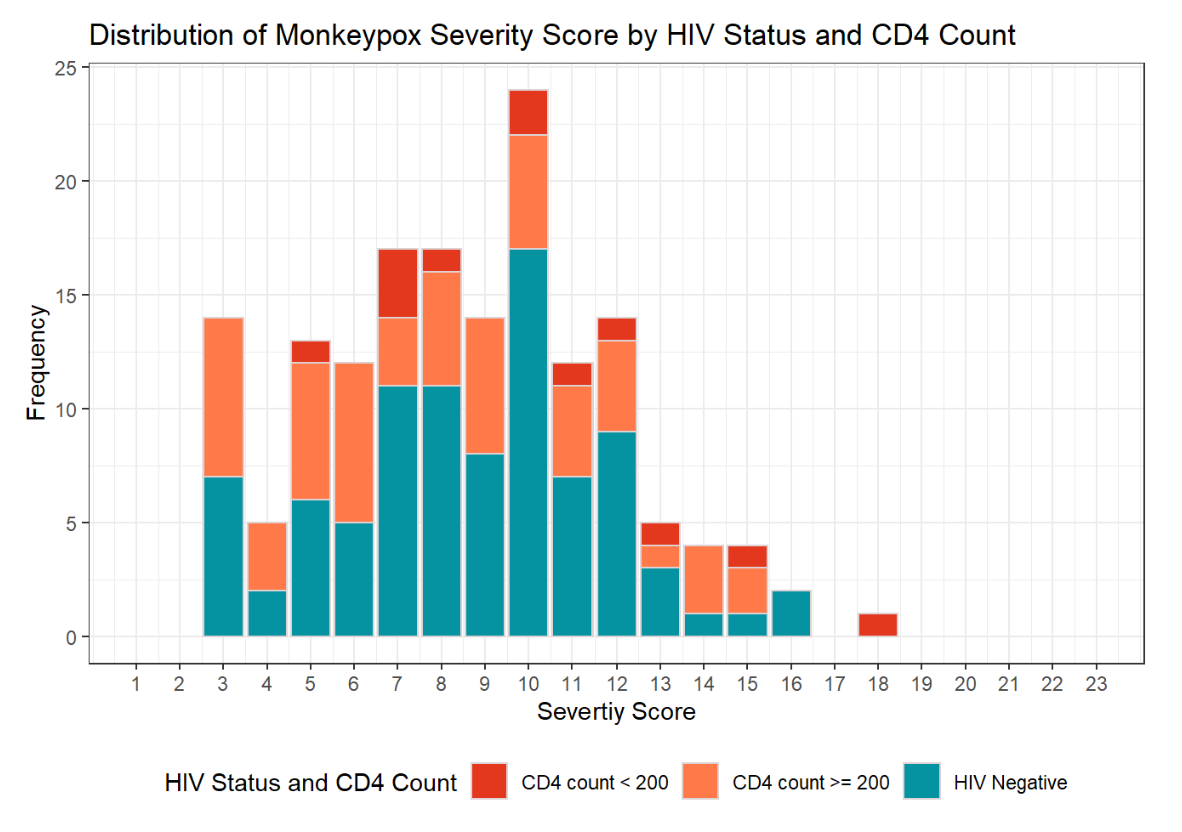
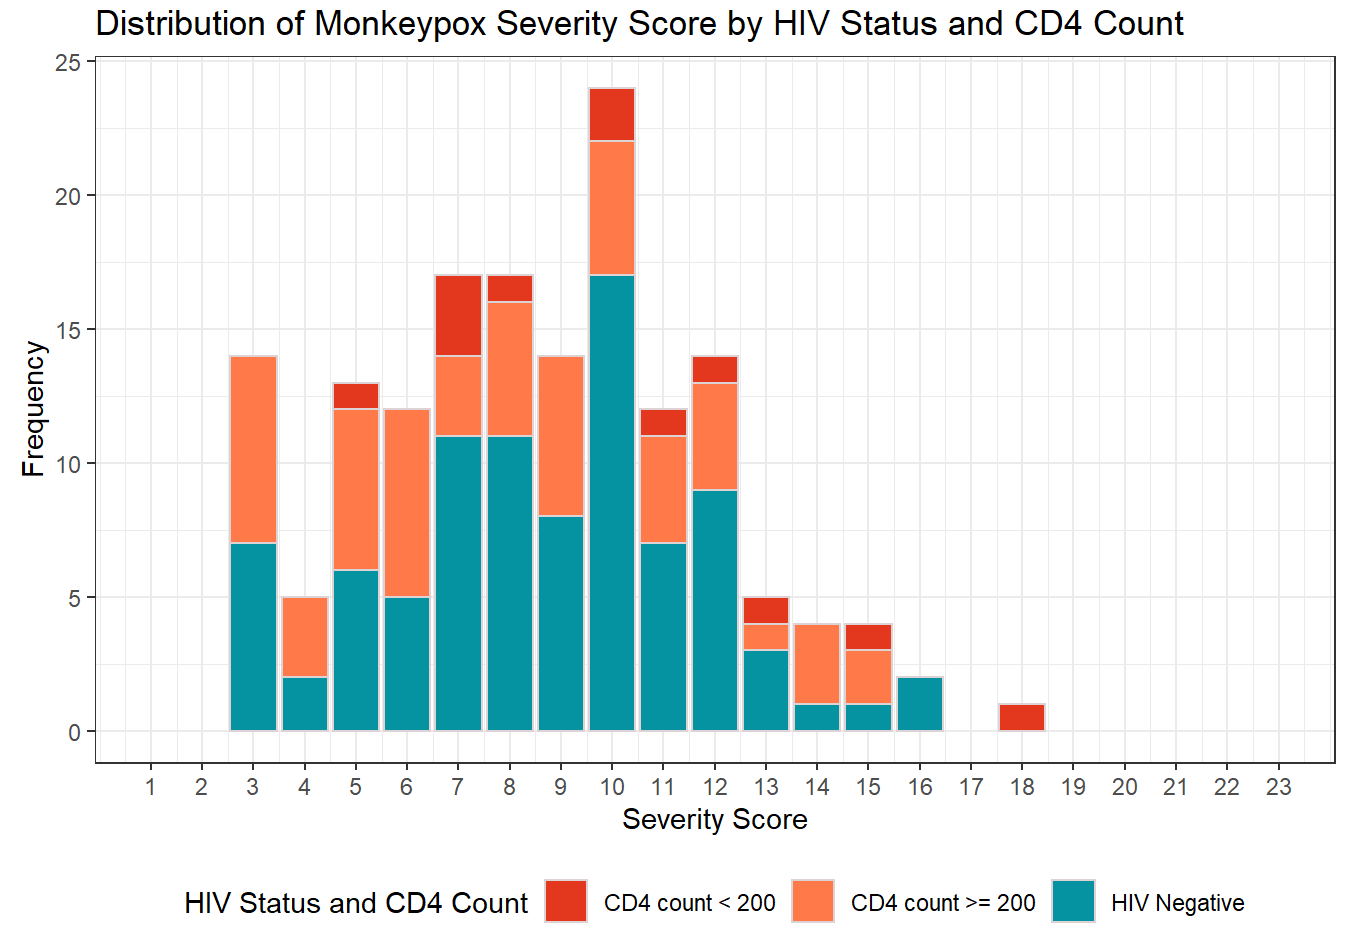
Add files via upload

Changed region(s): [[0.0, 0.0, 0.9746, 1.0]]

diff --git a/content/mpx_dev_val/_index.md b/content/mpx_dev_val/_index.md
@@ -5,6 +5,19 @@ date: 2022-12-20
 
 <br>
 
+**BACKGROUND**
+
+Clinical severity scores facilitate standardized quantitative comparison of disease severity between groups of patients to understand risk factors for severe illness and evaluate treatment efficacy. Relevant severity scoring tools provide reliable discrimination across the spectrum of illness severity and are parsimonious, easy to use, and universally applicable. Prior mpox severity scores, based on numbers of skin lesions and individual functional capacity, have been less applicable to the 2022 outbreak.
+
+<br>
+
+**CORRELATION MATRIX**
+
+Correlation Matrix by Color Shades     |  Correlation Matrix by Coefficients
+:-------------------------:|:-------------------------:
+![**Matrix 1A: Monkeypox Severity Score Correlation Matrix 1**](Matrix_1A.png)  |  ![**Matrix 1B: Monkeypox Severity Score Correlation Matrix 2**](Matrix_1B.png)
+
+
 **METHODS**
 
 Using expert opinion and literature review, we developed an MPOX-SSS with an initial set of possible variables that we refined based on data availability, prior association with severity, and parameter correlation to include 7 final elements: number of active lesions, anatomic extent of lesion involvement, presence of confluent lesions, presence of bacterial superinfection, extent of mucosal areas affected, level of care, and analgesia requirement (tool available at mpoxseverityscore.com). We piloted this MPOX-SSS via a retrospective chart review at a single academic urban medical center and compared scores using the Wilcoxon rank sum test.
@@ -17,9 +30,21 @@ Among the first 200 patients presenting with mpox (median age 34, 99% born male,
 
 <br>
 
+**CONCLUSIONS**
+
+Our pilot MPOX-SSS was able to produce a severity score retrospectively from 86% of charts, demonstrated good discrimination with statistically higher scores in groups expected to have more severe disease, and was able to distinguish change over time for individual patients that correlated with clinical illness. We propose this tool be assessed for utility in clinical trials of mpox treatment, in prospective observational cohort studies, and in comparisons of illness caused by different mpox clades.
+
+<br>
+
 **FIGURES**
 
-**Figure 1A: Monkeypox Severity Score Distribution by HIV Status**
+**Figure 1C: Monkeypox Severity Score Distribution by HIV Status**
+![**Figure 1C: Monkeypox Severity Score Distribution by HIV Status**](Figure_1C.png)
+
+**Figure 1D: Monkeypox Severity Score Distribution by Treatment**
+![**Figure 1D: Monkeypox Severity Score Distribution by Treatment**](Figure_1D.png)
+
+**Figure 1A: Monkeypox Severity Score Distribution by HIV Status and CD4 Counts**
 ![**Figure 1A: Monkeypox Severity Score Distribution by HIV Status**](Figure_1A.png)
 
 **Figure 1B: Monkeypox Severity Score Overtime**

diff --git a/content/authors/Shauna Gunaratne/_index.md b/content/authors/Shauna Gunaratne/_index.md
@@ -1,27 +1,29 @@
 ---
 # Display name
-title: Jacob McLean
-weight: 2
+title: Shauna Gunaratne
+weight: 5
 
 # Username (this should match the folder name)
 authors:
-  - Jacob McLean
+  - Shauna Gunaratne
 
 # Is this the primary user of the site?
 superuser: false
 
 # Role/position
-role: Infectious Diseases Fellow
+role: Assistant Professor of Medicine at CUMC, Associate Program Director for the Infectious Diseases Fellowship Program
 
 # Organizations/Affiliations
 organizations:
-  - name: NYP/CUMC
+  - name: CUMC/NYP
     url: ''
 
 # Short bio (displayed in user profile at end of posts)
 
 interests:
-  - Infectious Diseases
+  - Management of patients living with HIV/AIDS and opportunistic infections
+  - HIV primary care
+  - PrEP, PEP and STI services
   #- Computational Linguistics
   #- Information Retrieval
 

diff --git a/content/authors/Jason Zucker/_index.md b/content/authors/Jason Zucker/_index.md
@@ -1,7 +1,7 @@
 ---
 # Display name
 title: Jason Zucker
-weight: 5
+weight: 1
 
 # Username (this should match the folder name)
 authors:
@@ -11,11 +11,11 @@ authors:
 superuser: true
 
 # Role/position
-role: Assistant Professor of Medicine at CUMC
+role: Physician/Assistant Professor
 
 # Organizations/Affiliations
 organizations:
-  - name: Columbia University Irving Medical Center
+  - name: NewYork-Presbyterian Hospital/Columbia University Irving Medical Center
     url: ''
 
 # Short bio (displayed in user profile at end of posts)
@@ -68,6 +68,6 @@ highlight_name: false
 # Organizational groups that you belong to (for People widget)
 #   Set this to `[]` or comment out if you are not using People widget.
 user_groups:
-  - Researchers
+  - MPOX Severity Score Development Team
 ---
 

diff --git a/content/authors/Esther Huang/_index.md b/content/authors/Esther Huang/_index.md
@@ -1,7 +1,7 @@
 ---
 # Display name
 title: Esther Huang
-weight: 10
+weight: 3
 
 # Username (this should match the folder name)
 authors:
@@ -11,15 +11,14 @@ authors:
 superuser: false
 
 # Role/position
-role: Data Manager at CUMC
+role: Data Manager
 
 # Organizations/Affiliations
 organizations:
-  - name: Columbia University Irving Medical Center
+  - name: CUMC
     url: ''
 
 # Short bio (displayed in user profile at end of posts)
-
 interests:
   - Infectious Diseases
   #- Computational Linguistics
@@ -68,6 +67,6 @@ highlight_name: false
 # Organizational groups that you belong to (for People widget)
 #   Set this to `[]` or comment out if you are not using People widget.
 user_groups:
-  - Researchers
+  - MPOX Severity Score Development Team
 ---
 

diff --git a/content/authors/John T. Brooks/_index.md b/content/authors/John T. Brooks/_index.md
@@ -1,27 +1,27 @@
 ---
 # Display name
-title: Jacob McLean
-weight: 2
+title: John T. Brooks
+weight: 11
 
 # Username (this should match the folder name)
 authors:
-  - Jacob McLean
+  - John T. Brooks
 
 # Is this the primary user of the site?
 superuser: false
 
 # Role/position
-role: Infectious Diseases Fellow
+role: Medical Epidemiologist
 
 # Organizations/Affiliations
 organizations:
-  - name: NYP/CUMC
+  - name: National Center for HIV/AIDS, Viral Hepatitis, STD, and TB Prevention
     url: ''
 
 # Short bio (displayed in user profile at end of posts)
 
 interests:
-  - Infectious Diseases
+  - HIV/AIDS
   #- Computational Linguistics
   #- Information Retrieval
 

diff --git a/content/authors/Inger Damon/_index.md b/content/authors/Inger Damon/_index.md
@@ -1,21 +1,21 @@
 ---
 # Display name
-title: Jacob McLean
-weight: 2
+title: Inger Damon
+weight: 10
 
 # Username (this should match the folder name)
 authors:
-  - Jacob McLean
+  - Inger Damon
 
 # Is this the primary user of the site?
 superuser: false
 
 # Role/position
-role: Infectious Diseases Fellow
+role: Director of the Division of High-Consequence Pathogens and Pathology
 
 # Organizations/Affiliations
 organizations:
-  - name: NYP/CUMC
+  - name: Centers for Disease Control and Prevention
     url: ''
 
 # Short bio (displayed in user profile at end of posts)

diff --git a/content/authors/William Fischer/_index.md b/content/authors/William Fischer/_index.md
@@ -1,21 +1,21 @@
 ---
 # Display name
-title: Jacob McLean
-weight: 2
+title: William Fischer
+weight: 9
 
 # Username (this should match the folder name)
 authors:
-  - Jacob McLean
+  - William Fischer
 
 # Is this the primary user of the site?
 superuser: false
 
 # Role/position
-role: Infectious Diseases Fellow
+role: Associate Professor of Medicine
 
 # Organizations/Affiliations
 organizations:
-  - name: NYP/CUMC
+  - name: UNC School of Medicine
     url: ''
 
 # Short bio (displayed in user profile at end of posts)

diff --git a/content/authors/Kate Stoeckle/_index.md b/content/authors/Kate Stoeckle/_index.md
@@ -1,21 +1,21 @@
 ---
 # Display name
-title: Jacob McLean
-weight: 2
+title: Kate Stoeckle
+weight: 6
 
 # Username (this should match the folder name)
 authors:
-  - Jacob McLean
+  - Kate Stoeckle
 
 # Is this the primary user of the site?
 superuser: false
 
 # Role/position
-role: Infectious Diseases Fellow
+role: Physician
 
 # Organizations/Affiliations
 organizations:
-  - name: NYP/CUMC
+  - name: Weill Cornell Medicine/NYP
     url: ''
 
 # Short bio (displayed in user profile at end of posts)

diff --git a/content/authors/Tim Wilkin/_index.md b/content/authors/Tim Wilkin/_index.md
@@ -1,21 +1,21 @@
 ---
 # Display name
-title: Jacob McLean
-weight: 2
+title: Tim Wilkin
+weight: 8
 
 # Username (this should match the folder name)
 authors:
-  - Jacob McLean
+  - Tim Wilkin
 
 # Is this the primary user of the site?
 superuser: false
 
 # Role/position
-role: Infectious Diseases Fellow
+role: Investigators
 
 # Organizations/Affiliations
 organizations:
-  - name: NYP/CUMC
+  - name: Weill Cornell Medicine
     url: ''
 
 # Short bio (displayed in user profile at end of posts)

diff --git a/content/authors/Marshall Glesby/_index.md b/content/authors/Marshall Glesby/_index.md
@@ -1,11 +1,11 @@
 ---
 # Display name
-title: Jacob McLean
-weight: 2
+title: Marshall Glesby
+weight: 7
 
 # Username (this should match the folder name)
 authors:
-  - Jacob McLean
+  - Marshall Glesby
 
 # Is this the primary user of the site?
 superuser: false
@@ -15,7 +15,7 @@ role: Infectious Diseases Fellow
 
 # Organizations/Affiliations
 organizations:
-  - name: NYP/CUMC
+  - name: Weill Cornell Medicine/NYP
     url: ''
 
 # Short bio (displayed in user profile at end of posts)

diff --git a/content/people/people.md b/content/people/people.md
@@ -16,6 +16,7 @@ content:
   # Choose which groups/teams of users to display.
   #   Edit `user_groups` in each user's profile to add them to one or more of these groups.
   user_groups:
+    - MPOX Severity Score Development Team
     - Principal Investigators
     - Researchers
     - Contributors
@@ -25,6 +26,7 @@ content:
     - Alumni
 design:
   show_interests: false
-  show_role: true
-  show_social: true
+  show_role: false
+  show_social: false
+  show_organizations: true
 ---

diff --git a/content/authors/Clare DeLaurentis/_index.md b/content/authors/Clare DeLaurentis/_index.md
@@ -1,11 +1,11 @@
 ---
 # Display name
-title: Jacob McLean
-weight: 2
+title: Clare DeLaurentis
+weight: 4
 
 # Username (this should match the folder name)
 authors:
-  - Jacob McLean
+  - Clare DeLaurentis
 
 # Is this the primary user of the site?
 superuser: false
@@ -15,7 +15,7 @@ role: Infectious Diseases Fellow
 
 # Organizations/Affiliations
 organizations:
-  - name: NYP/CUMC
+  - name: CUMC/NYP
     url: ''
 
 # Short bio (displayed in user profile at end of posts)
